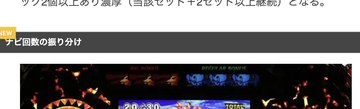
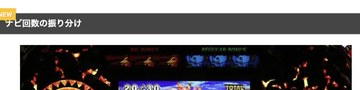
画像切り出し修正: タイトルテキスト除去・表示位置調整
- sc_orange.jpg: ヘッダーバー除去（y=790〜）→ゲーム画面のみ表示
- trig_100.jpg / trig_reg.jpg: タイトル行除去（y=545〜）→ゲーム画面のみ
- .trig-img に object-position:top 追加（上部から表示）

diff --git a/index.html b/index.html
@@ -122,7 +122,7 @@ body{background:var(--bg);color:var(--tx);font-family:-apple-system,'Helvetica N
 .trig{padding:14px 8px;border-radius:10px;border:2px solid transparent;font-weight:700;cursor:pointer;display:flex;flex-direction:column;align-items:center;gap:5px;transition:transform .1s,border-color .3s}
 .trig:active{transform:scale(.93)}
 .trico{font-size:28px}
-.trig-img{width:100%;border-radius:6px;display:block;margin-bottom:4px;object-fit:cover;height:70px}
+.trig-img{width:100%;border-radius:6px;display:block;margin-bottom:4px;object-fit:cover;object-position:top;height:70px}
 .trn{font-size:13px;text-align:center;line-height:1.3}
 .trd{font-size:10px;text-align:center;opacity:.75;line-height:1.3}
 .tA{background:#0d1a0a;color:#86efac} .tB{background:#1a1200;color:#fde68a}
